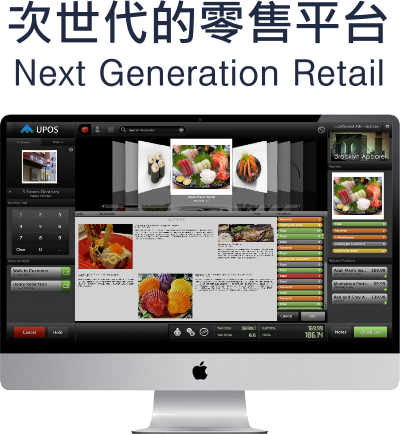
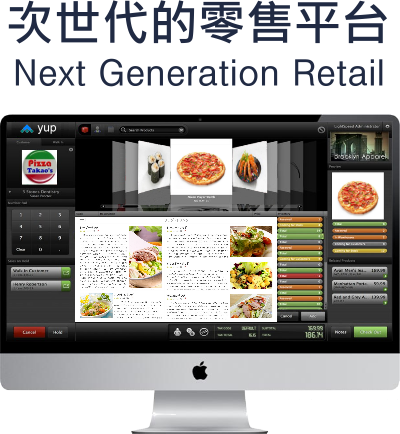
ee

diff --git a/xlive/WebContent/probeweb/upos/upos_overview.html b/xlive/WebContent/probeweb/upos/upos_overview.html
@@ -82,8 +82,8 @@
                   <div class="mbox ui-col-b">
                       
                       <div style="position:relative;float:left;padding-left:20px;padding-top:50px;color:#585858;width:70%">
-                      <h4>UPOS 重新定義了以往的店面購物經驗，為了吸引新一代行動族群，UPOS打造出堅固、完全整合的POS系統，將平板電腦(apple,android,windows 8)、手機(mobile)轉變成
-                      最尖端的劃時代零售業工具。而且支援多使用者(multi-user)、多分店(multi-store)、甚至可擴充到網路購物平台(eCommerce)，讓銷售服務完全拋開任何限制。</h4>
+                      <h4>yup 重新定義了以往的店面購物經驗，為了吸引新一代行動族群，yup打造出行動化、完全整合的POS系統，將平板電腦(apple,android,windows 8)、手機(mobile)轉變成
+                    最尖端的劃時代零售業工具。而且支援多使用者(multi-user)、多分店(multi-store)、甚至可擴充到網路購物平台(eCommerce)，讓銷售服務完全拋開任何限制。</h4>
                       </div>
                       
                       <div style="position:relative;float:right;padding-left:20px;padding-top:90px;height:200px;">

diff --git a/xlive/WebContent/index.html b/xlive/WebContent/index.html
@@ -282,7 +282,7 @@ h6 {
                     	<h2 class="probe_font">yup - 商店POS再進化</h2>
                 	</div>                                    
                 	<div style="position:relative;line-hight:0px;top:-30px;text-align:center;">
-                		<h3 class="probe_font" style="line-hight:0px;">anytime.anywhere.anything.</h3>
+                		<h3 class="probe_font" style="line-hight:0px;">anytime . anywhere . anything.</h3>
                 	</div>
                 </div>
                 <div id="btn-3-group">
@@ -348,7 +348,7 @@ h6 {
                     <div style="position:relative;float:left;color:#585858;width:80%;">
                         <h4>jLIVE</h4>
                         <h4 style="color:#787878;">
-                              讓程式設計師因應商務需求，快速地開發企業應用程式。
+                              因應公司的商務需求，快速地開發企業java應用程式。
                         </h4>
                         
                         <div class="bottom_link">

diff --git a/xlive/WebContent/probeweb/upos/upos_stores.html b/xlive/WebContent/probeweb/upos/upos_stores.html
@@ -87,7 +87,7 @@
                           </div>
                           
                           <div style="position:relative;float:left;color:#787878;line-height:0;border:none;width:70%;">
-                          <h4>簡單的設定功能，易於維護的後台作業，讓商家能夠更迅速的拓展分店，UPOS 不但提供多樣的模版讓商家選用，更可依商家的需求，做更精細的委託設計。</h4>
+                          <h4>簡單的設定功能，易於維護的後台作業，讓商家能夠更迅速的拓展分店，yup 不但提供多樣的模版讓商家選用，更可依商家的需求，做更精細的委託設計。</h4>
                           </div>
                       </div>
                       

diff --git a/xlive/WebContent/probeweb/upos/upos_desk.html b/xlive/WebContent/probeweb/upos/upos_desk.html
@@ -98,9 +98,11 @@
                   <img src="/images/probeweb/upos/mac3.jpg">
                   </div>
                   
+                  <!--  
                   <div class="mbox ui-col-c auto_pic" 
                        style="background-image:url('/images/probeweb/home/gray-divider.png');height:90px;">
                   </div>
+                   -->
                   
                   
                   <div class="mbox ui-col-a">
